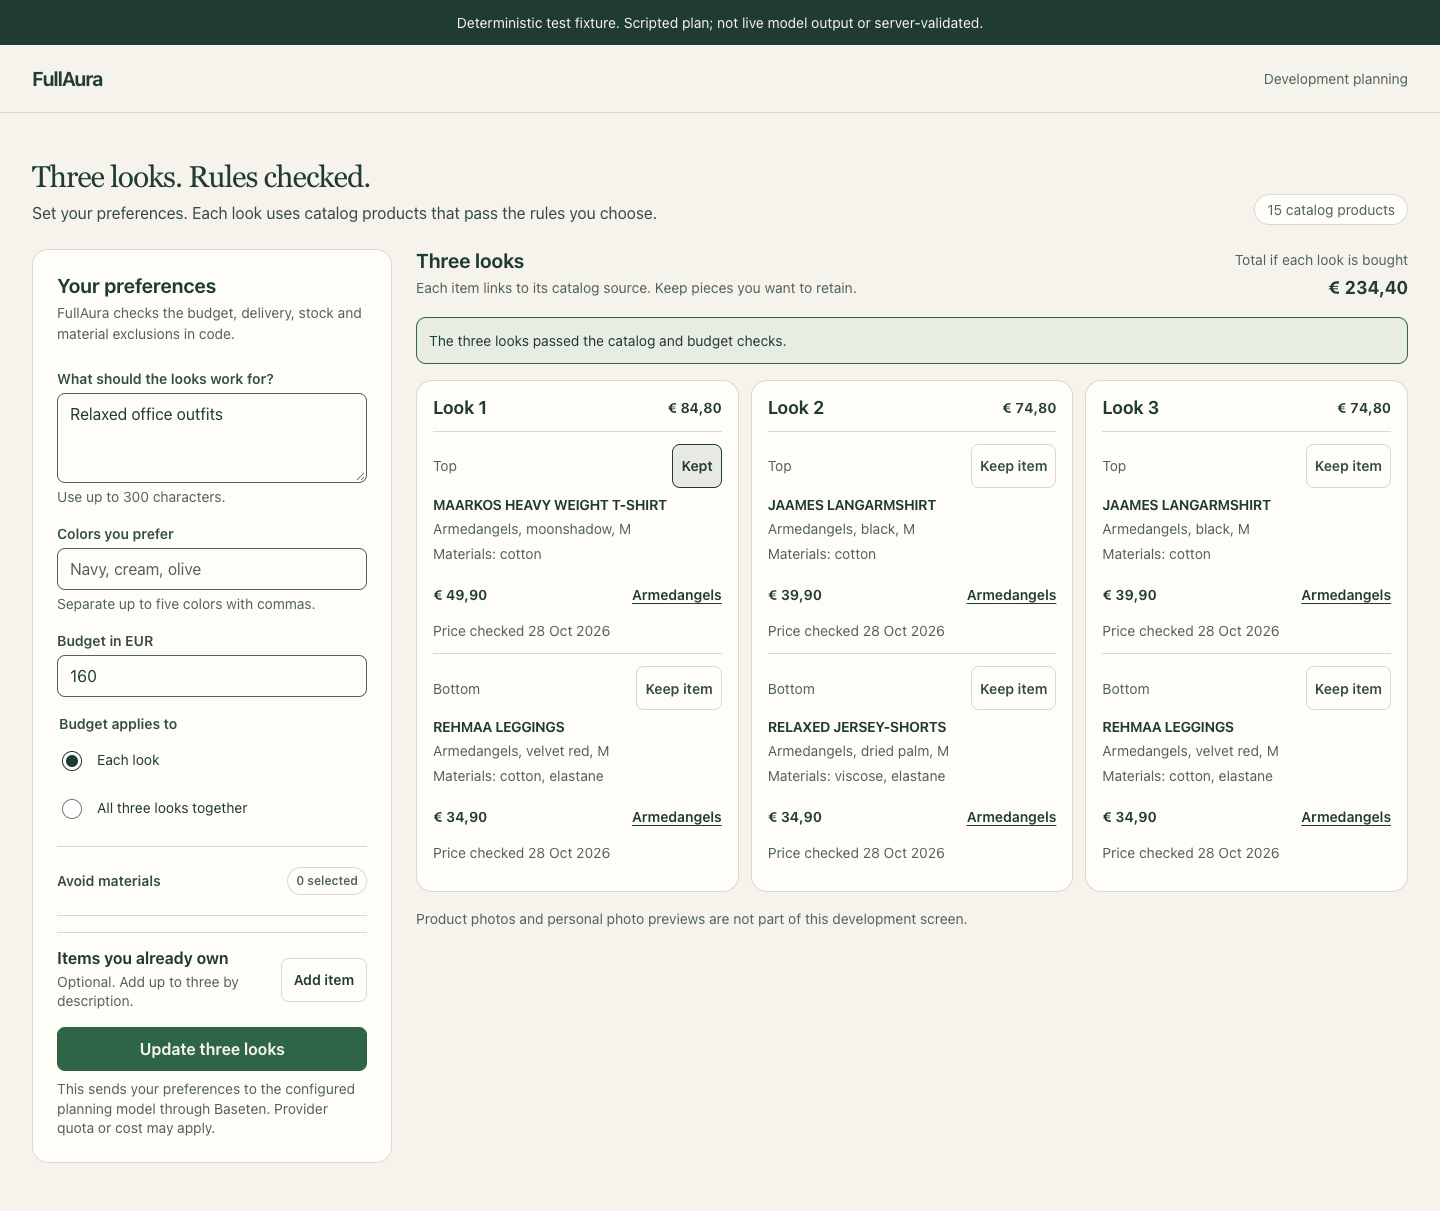
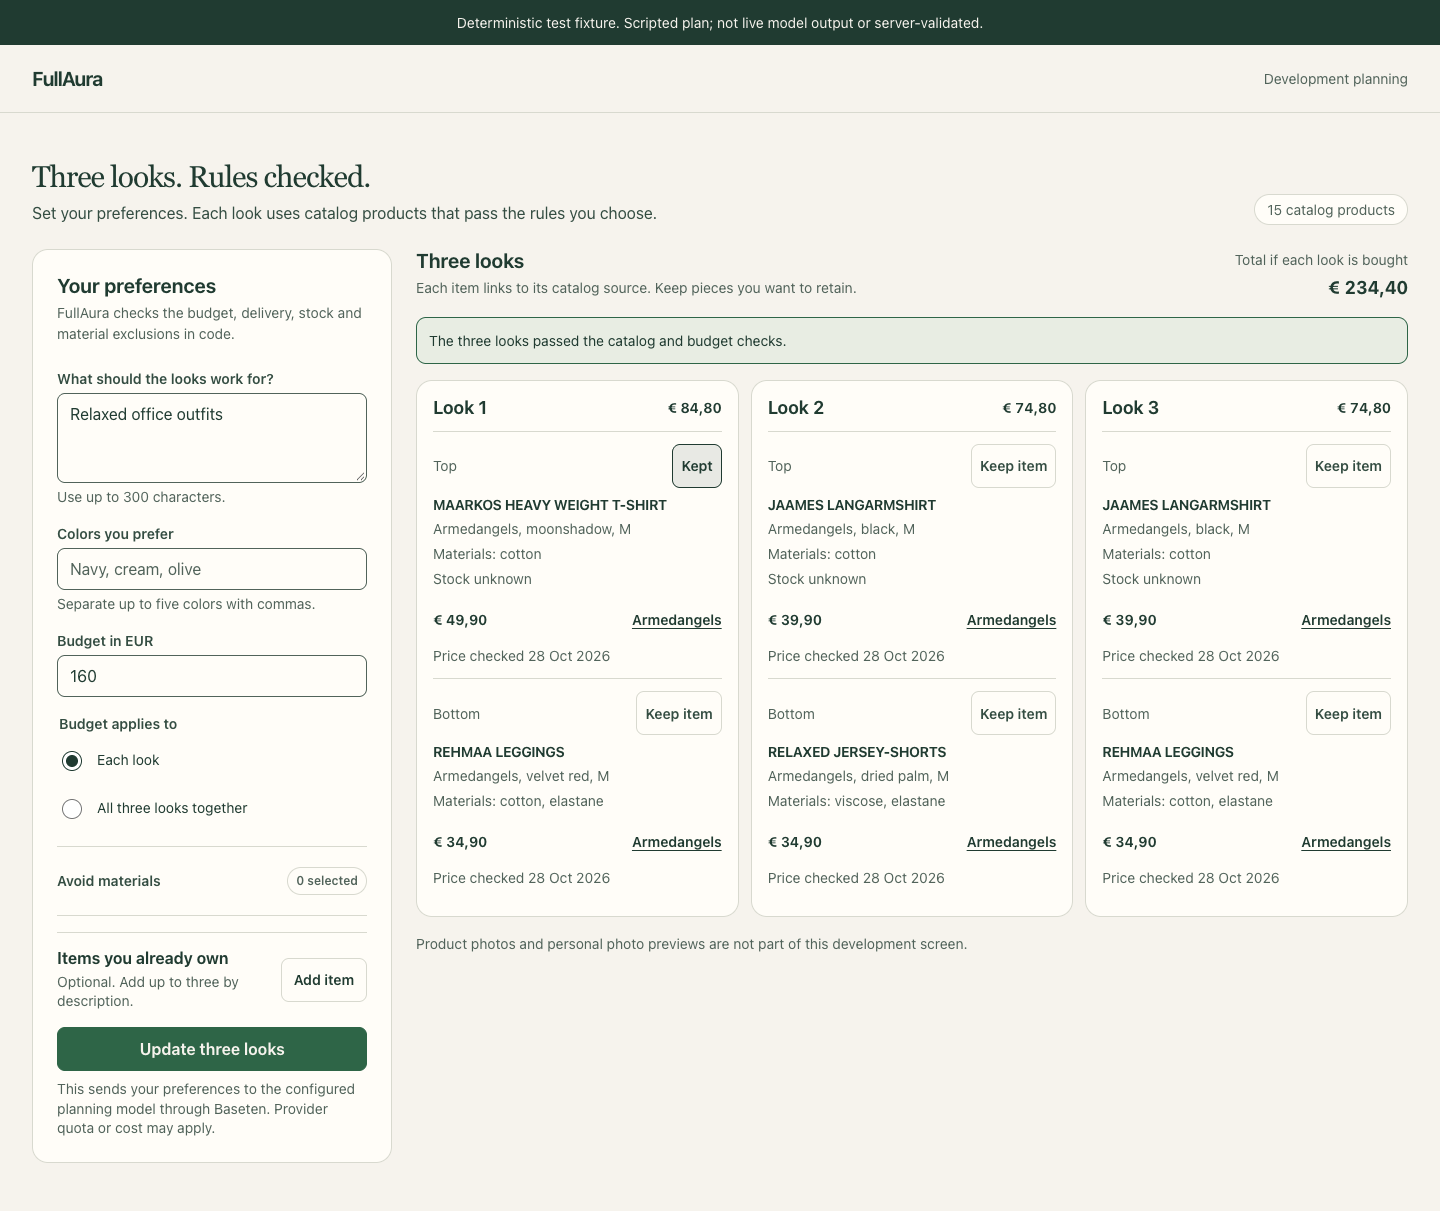
Address preferences flow review findings
Keep locks stable while planning, render owned-item notices and unknown stock, and explain the material-check boundary. Add regression coverage and refresh the desktop and mobile fixture screenshots.

diff --git a/frontend/src/App.tsx b/frontend/src/App.tsx
@@ -130,6 +130,13 @@ interface PlanResponse {
   outcome: "success" | "infeasible" | "generation_failed" | "provider_timeout" | "provider_error";
   plan: Plan | null;
   conflicts: { detail: string }[];
+  notices: OwnedNotice[];
+}
+
+interface OwnedNotice {
+  kind: "owned_reported" | "owned_unconfirmed";
+  item: ItemRef;
+  material: string;
 }
 
 interface PlanRequest {
@@ -328,10 +335,20 @@ function parsePlanResponse(value: unknown): PlanResponse {
     if (!isRecord(entry)) throw new Error("Invalid planning conflict");
     return { detail: readString(entry.detail, "conflict detail") };
   });
+  const notices = readArray(value.notices ?? [], "planning notices").map((entry) => {
+    if (!isRecord(entry) || (entry.kind !== "owned_reported" && entry.kind !== "owned_unconfirmed")) {
+      throw new Error("Invalid planning notice");
+    }
+    const item = parseItemRef(entry.item);
+    if (item.kind !== "owned") throw new Error("Invalid planning notice item");
+    const kind: OwnedNotice["kind"] = entry.kind;
+    return { kind, item, material: readString(entry.material, "planning notice material") };
+  });
   return {
     outcome,
     plan: value.plan === null ? null : parsePlan(value.plan),
     conflicts,
+    notices,
   };
 }
 
@@ -457,7 +474,9 @@ interface ProductLineProps {
   slot: Slot;
   item: ItemRef;
   ownedItems: OwnedItem[];
+  ownedNotices: OwnedNotice[];
   isLocked: boolean;
+  lockDisabled: boolean;
   onToggleLock: (lookId: string, slot: Slot, item: ItemRef) => void;
 }
 
@@ -468,11 +487,14 @@ function ProductLine({
   slot,
   item,
   ownedItems,
+  ownedNotices,
   isLocked,
+  lockDisabled,
   onToggleLock,
 }: ProductLineProps) {
   if (item.kind === "owned") {
     const owned = ownedItems.find((candidate) => candidate.id === item.id);
+    const notices = ownedNotices.filter((notice) => notice.item.id === item.id);
     return (
       <li className="look-item">
         <div className="look-item-heading">
@@ -481,6 +503,7 @@ function ProductLine({
             aria-label={`${isLocked ? "Release" : "Keep"} ${owned?.description ?? "owned item"} in ${look.id}`}
             aria-pressed={isLocked}
             className={`lock-button${isLocked ? " is-locked" : ""}`}
+            disabled={lockDisabled}
             onClick={() => onToggleLock(look.id, slot, item)}
             type="button"
           >
@@ -492,6 +515,13 @@ function ProductLine({
           {owned ? `${owned.color}, ${labelCategory(owned.category)}` : "Already owned"}
         </p>
         <p className="item-price">Already owned</p>
+        {notices.map((notice) => (
+          <p className="item-facts" key={`${notice.kind}-${notice.material}`}>
+            {notice.kind === "owned_reported"
+              ? `${notice.material} reported by you. It is excluded from new purchases.`
+              : `${notice.material} is unconfirmed for this item.`}
+          </p>
+        ))}
       </li>
     );
   }
@@ -529,6 +559,7 @@ function ProductLine({
           aria-label={`${isLocked ? "Release" : "Keep"} ${entry.product.title} in ${look.id}`}
           aria-pressed={isLocked}
             className={`lock-button${isLocked ? " is-locked" : ""}`}
+          disabled={lockDisabled}
           onClick={() => onToggleLock(look.id, slot, item)}
           type="button"
         >
@@ -538,6 +569,7 @@ function ProductLine({
       <h3>{entry.product.title}</h3>
       {facts && <p className="item-facts">{facts}</p>}
       <p className="item-facts">{composition}</p>
+      {offer?.stock === null && <p className="item-facts">Stock unknown</p>}
       <div className="item-source">
         <span className="item-price">{formatMoney(offer?.price_cents ?? null)}</span>
         {offerLink ? (
@@ -558,11 +590,22 @@ interface LookCardProps {
   look: Look;
   plan: Plan;
   ownedItems: OwnedItem[];
+  ownedNotices: OwnedNotice[];
   locks: LockedPlacement[];
+  lockDisabled: boolean;
   onToggleLock: (lookId: string, slot: Slot, item: ItemRef) => void;
 }
 
-function LookCard({ catalog, look, plan, ownedItems, locks, onToggleLock }: LookCardProps) {
+function LookCard({
+  catalog,
+  look,
+  plan,
+  ownedItems,
+  ownedNotices,
+  locks,
+  lockDisabled,
+  onToggleLock,
+}: LookCardProps) {
   const items = SLOTS.flatMap((slot) => {
     const item = look.items[slot];
     return item ? [{ slot, item }] : [];
@@ -589,9 +632,11 @@ function LookCard({ catalog, look, plan, ownedItems, locks, onToggleLock }: Look
               catalog={catalog}
               isLocked={isLocked}
               item={item}
+              lockDisabled={lockDisabled}
               look={look}
               onToggleLock={onToggleLock}
               ownedItems={ownedItems}
+              ownedNotices={ownedNotices}
               plan={plan}
               slot={slot}
             />
@@ -615,6 +660,7 @@ export function App() {
   const [locks, setLocks] = useState<LockedPlacement[]>([]);
   const [plan, setPlan] = useState<Plan | null>(null);
   const [planOwnedItems, setPlanOwnedItems] = useState<OwnedItem[]>([]);
+  const [planNotices, setPlanNotices] = useState<OwnedNotice[]>([]);
   const [successfulPreferenceKey, setSuccessfulPreferenceKey] = useState<string | null>(null);
   const [requestState, setRequestState] = useState<RequestState>("idle");
   const [requestMessage, setRequestMessage] = useState<string | null>(null);
@@ -671,6 +717,7 @@ export function App() {
   }
 
   function toggleLock(lookId: string, slot: Slot, item: ItemRef) {
+    if (requestState === "loading") return;
     setLocks((current) => {
       const exists = current.some(
         (lock) =>
@@ -743,6 +790,7 @@ export function App() {
       if (result.outcome === "success" && result.plan) {
         setPlan(result.plan);
         setPlanOwnedItems(ownedItems);
+        setPlanNotices(result.notices);
         setSuccessfulPreferenceKey(submittedPreferenceKey);
         setRequestState("success");
         setRequestMessage("The three looks passed the catalog and budget checks.");
@@ -894,7 +942,7 @@ export function App() {
                     <span className="selection-count">{exclusions.length} selected</span>
                   </summary>
                   <p className="field-help">
-                    Exclusions apply to new purchases. A selection also removes products whose composition cannot be checked.
+                    Exclusions apply to new purchases. Only materials named in a product's catalog record are checked; unnamed or vague parts are not checked. A selection also removes products whose composition cannot be checked.
                   </p>
                   <div className="material-list">
                     {MATERIALS.map((material) => (
@@ -1047,10 +1095,12 @@ export function App() {
                     <LookCard
                       key={look.id}
                       catalog={catalog}
+                      lockDisabled={requestState === "loading"}
                       locks={locks}
                       look={look}
                       onToggleLock={toggleLock}
                       ownedItems={planOwnedItems}
+                      ownedNotices={planNotices}
                       plan={plan}
                     />
                   ))}

diff --git a/frontend/test/App.test.tsx b/frontend/test/App.test.tsx
@@ -25,8 +25,8 @@ function apiResponse(payload: unknown, status = 200): Response {
   } as Response;
 }
 
-function successfulResponse(plan: unknown): unknown {
-  return { outcome: "success", plan, conflicts: [] };
+function successfulResponse(plan: unknown, notices: unknown[] = []): unknown {
+  return { outcome: "success", plan, notices, conflicts: [] };
 }
 
 function installApiFixtures(plans: unknown[]) {
@@ -64,6 +64,15 @@ function object(value: unknown): Record<string, unknown> {
   return value as Record<string, unknown>;
 }
 
+function planWithOwnedItems(): unknown {
+  const plan = JSON.parse(JSON.stringify(firstPlan)) as {
+    looks: Array<{ items: Record<string, unknown> }>;
+  };
+  plan.looks[0].items.top = { kind: "owned", id: "owned-1" };
+  plan.looks[1].items.top = { kind: "owned", id: "owned-2" };
+  return plan;
+}
+
 afterEach(() => {
   cleanup();
   vi.unstubAllGlobals();
@@ -85,6 +94,7 @@ describe(`${FIXTURE_LABEL}: preferences-to-results flow`, () => {
     expect(screen.getByRole("heading", { name: "look 2" })).toBeTruthy();
     expect(screen.getByRole("heading", { name: "look 3" })).toBeTruthy();
     expect(screen.getAllByText("MAARKOS HEAVY WEIGHT T-SHIRT")).toHaveLength(2);
+    expect(screen.getAllByText("Stock unknown")).not.toHaveLength(0);
 
     fireEvent.click(
       screen.getByRole("button", { name: "Keep MAARKOS HEAVY WEIGHT T-SHIRT in look_1" }),
@@ -116,6 +126,76 @@ describe(`${FIXTURE_LABEL}: preferences-to-results flow`, () => {
         .getAttribute("aria-pressed"),
     ).toBe("true");
     expect(screen.getByText(/234,40/)).toBeTruthy();
+  });
+
+  it("does not change locks while an update is in flight", async () => {
+    let resolveUpdate: ((response: Response) => void) | undefined;
+    let planningCalls = 0;
+    const fetchFixture = vi.fn<typeof fetch>((input) => {
+      if (String(input) === "/api/catalog") return Promise.resolve(apiResponse(catalogFixture));
+      planningCalls += 1;
+      if (planningCalls === 1) return Promise.resolve(apiResponse(successfulResponse(firstPlan)));
+      return new Promise<Response>((resolve) => {
+        resolveUpdate = resolve;
+      });
+    });
+    vi.stubGlobal("fetch", fetchFixture);
+    render(<App />);
+    await screen.findByText("15 catalog products");
+    submitPreferences("Lock updates", "250");
+    fireEvent.click(screen.getByRole("button", { name: "Generate three looks" }));
+    await screen.findByText("The three looks passed the catalog and budget checks.");
+
+    fireEvent.click(screen.getByRole("button", { name: "Update three looks" }));
+    const lockButton = screen.getByRole("button", {
+      name: "Keep JAAMES LANGARMSHIRT in look_2",
+    });
+    expect((lockButton as HTMLButtonElement).disabled).toBe(true);
+    fireEvent.click(lockButton);
+    expect(lockButton.getAttribute("aria-pressed")).toBe("false");
+
+    resolveUpdate?.(apiResponse(successfulResponse(reducedBudgetPlan)));
+    await waitFor(() => expect((lockButton as HTMLButtonElement).disabled).toBe(false));
+    expect(
+      screen.getByRole("button", { name: "Keep JAAMES LANGARMSHIRT in look_2" }).getAttribute("aria-pressed"),
+    ).toBe("false");
+  });
+
+  it("shows owned-item material notices and explains catalog material checks", async () => {
+    installApiFixtures([
+      successfulResponse(planWithOwnedItems(), [
+        {
+          kind: "owned_reported",
+          item: { kind: "owned", id: "owned-1" },
+          material: "wool",
+        },
+        {
+          kind: "owned_unconfirmed",
+          item: { kind: "owned", id: "owned-2" },
+          material: "wool",
+        },
+      ]),
+    ]);
+    render(<App />);
+    await screen.findByText("15 catalog products");
+    fireEvent.click(screen.getByRole("button", { name: "Add item" }));
+    fireEvent.click(screen.getByRole("button", { name: "Add item" }));
+    const colors = screen.getAllByLabelText("Color");
+    const descriptions = screen.getAllByLabelText("Description");
+    fireEvent.change(colors[0], { target: { value: "navy" } });
+    fireEvent.change(descriptions[0], { target: { value: "merino jumper" } });
+    fireEvent.change(colors[1], { target: { value: "cream" } });
+    fireEvent.change(descriptions[1], { target: { value: "unknown knit" } });
+    fireEvent.click(screen.getByText("Avoid materials"));
+    fireEvent.click(screen.getByLabelText("wool"));
+    submitPreferences("Owned-material notices", "250");
+    fireEvent.click(screen.getByRole("button", { name: "Generate three looks" }));
+
+    expect(await screen.findByText("wool reported by you. It is excluded from new purchases.")).toBeTruthy();
+    expect(screen.getByText("wool is unconfirmed for this item.")).toBeTruthy();
+    expect(
+      screen.getByText(/Only materials named in a product's catalog record are checked/),
+    ).toBeTruthy();
   });
 
   it("sends the combined budget mode and shows the unique-item total", async () => {
